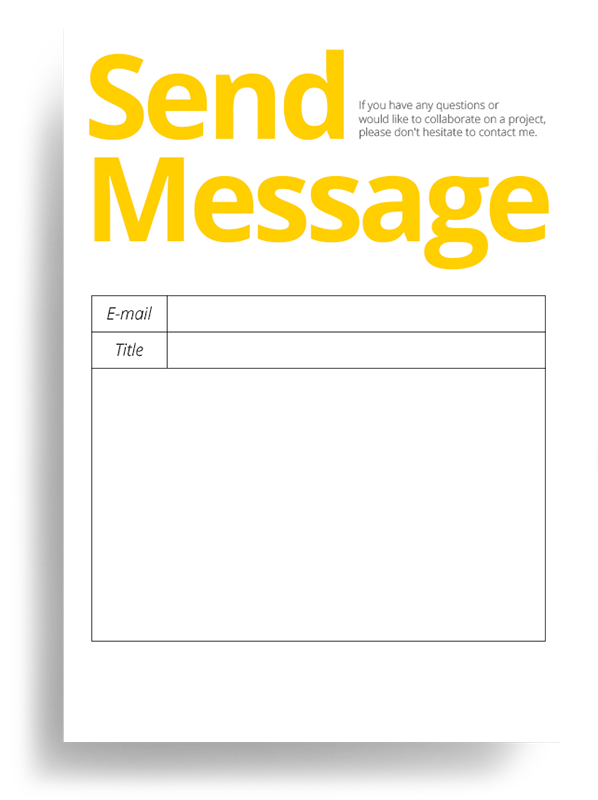
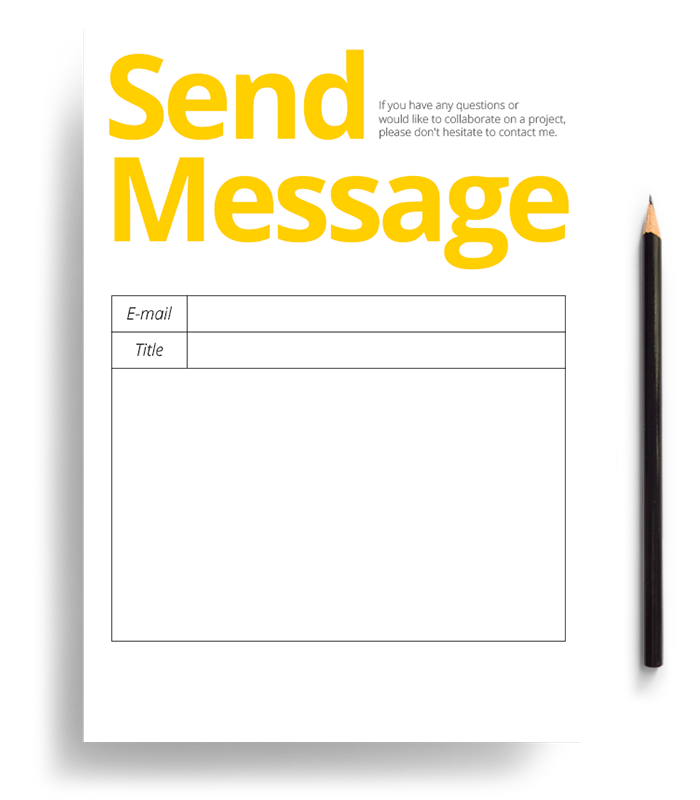
message

diff --git a/stylesheets/styles.css b/stylesheets/styles.css
@@ -1,6 +1,6 @@
 @media (min-width: 800px) {
     #about {
-        
+
         display: box;
         box-pack: center;
         box-align: center;
@@ -12,7 +12,7 @@
         text-align: center;
         position: relative;
         height: 100%;
-        
+
         text-align: center;
         background-color: #ffcf00;  
         position: relative;
@@ -22,11 +22,11 @@
         background-size: cover;
         background-position: center;
     }
-    
+
 }
 
 
-@media (max-width: 700px) {
+@media (max-width: 800px) {
     #about {
         display: box;
         box-pack: center;
@@ -37,7 +37,6 @@
         -webkit-box-align: center;
 
         text-align: center;
-        position: relative;
         height: 100%;
     }
 
@@ -47,9 +46,9 @@
     }
 }
 
-@media (min-width: 1220px) {
+@media (min-width: 900px) {
     #speciality {
-        
+
         display: box;
         box-pack: center;
         box-align: center;
@@ -61,7 +60,7 @@
         text-align: center;
         position: relative;
         height: 100%;
-        
+
         text-align: center;
         background-color: #2cd7e0;  
         position: relative;
@@ -71,15 +70,15 @@
         background-size: cover;
         background-position: top;
     }
-    
+
     #speciality img{
-    margin: 140px -15px;
-    height: auto;
+        margin: 140px -15px;
+        height: auto;
     }
 
 }
 
-@media (max-width: 700px) {
+@media (max-width: 900px) {
     #specialyty {
         display: box;
         box-pack: center;
@@ -90,19 +89,20 @@
         -webkit-box-align: center;
 
         text-align: center;
-        position: relative;
         height: 100%;
     }
 
     #speciality img {
-        width: 100%;
+        align-content: center;
+        width: 80%;
+        height: 80%;
         vertical-align: middle;
     }
 }
 
 @media (min-width: 800px) {
     #pickpic {
-        
+
         display: box;
         box-pack: center;
         box-align: center;
@@ -114,7 +114,7 @@
         text-align: center;
         position: relative;
         height: 100%;
-        
+
         text-align: center;
         background-color: #456ebb;  
         position: relative;
@@ -122,16 +122,13 @@
         background-image: url(/images/bg_pickpic.jpg);
         background-repeat: no-repeat;
         background-size: cover;
-        background-position: top;
-        position: relative;
+        background-position: center;
     }
-    #picpick img{
-        position: absolute;
-    }
+
 }
 
 
-@media (max-width: 800px) {
+@media (max-width: 900px) {
     #pickpic {
         display: box;
         box-pack: center;
@@ -141,22 +138,20 @@
         -webkit-box-pack: center;
         -webkit-box-align: center;
 
-       
-        position: relative;
+        text-align: center;
         height: 100%;
-        background-color: #456ebb;
     }
 
-    #pickpic img {
+    #about img {
         width: 100%;
-        margin-bottom: 0;
+        vertical-align: middle;
     }
 }
 
 
 @media (min-width: 800px) {
     #message {
-        
+
         display: box;
         box-pack: center;
         box-align: center;
@@ -168,7 +163,7 @@
         text-align: center;
         position: relative;
         height: 100%;
-        
+
         text-align: center;
         background-color: #bec9cb;  
         position: relative;
@@ -178,11 +173,11 @@
         background-size: cover;
         background-position: center;
     }
-    
+
 }
 
 
-@media (max-width: 700px) {
+@media (max-width: 900px) {
     #message {
         display: box;
         box-pack: center;
@@ -193,7 +188,6 @@
         -webkit-box-align: center;
 
         text-align: center;
-        position: relative;
         height: 100%;
     }
 
@@ -254,19 +248,23 @@ html, body {
 }
 
 #pickpic {
+    text-align: center;
+    background-color: #456ebb;  
     position: relative;
-    text-align: bottom;
-    background-color: #456ebb;
     height: 100%;
 }
 
-#pickpic img{
-    position: absolute;
-    left: 22%;
-    bottom: 0;
+#pickpic img {
+    max-width: 100%;
 }
 
 #message {
-    background-color: #bec9cb;
     text-align: center;
+    position: relative;
+    height: 100%;
+    background-color: #bec9cb;
+}
+
+#message img {
+    max-width: 100%;
 }

diff --git a/index.html b/index.html
@@ -43,7 +43,6 @@
             </section>
             <section id="message">
                 <img src="images/img_message.png">
-                <img src="images/img_pencel.png">
             </section>
         </div>
         <!--        <img src="images/01_main_full.jpg">-->
